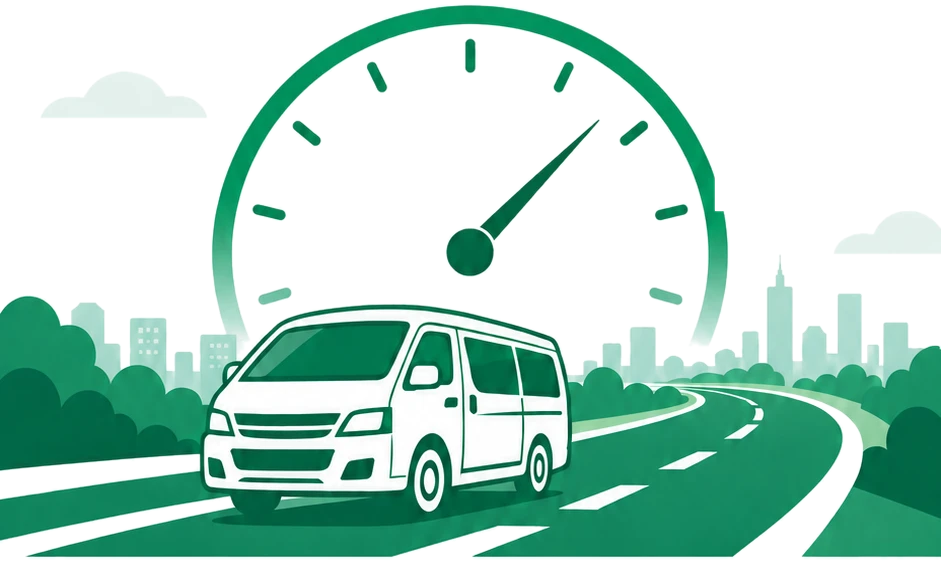
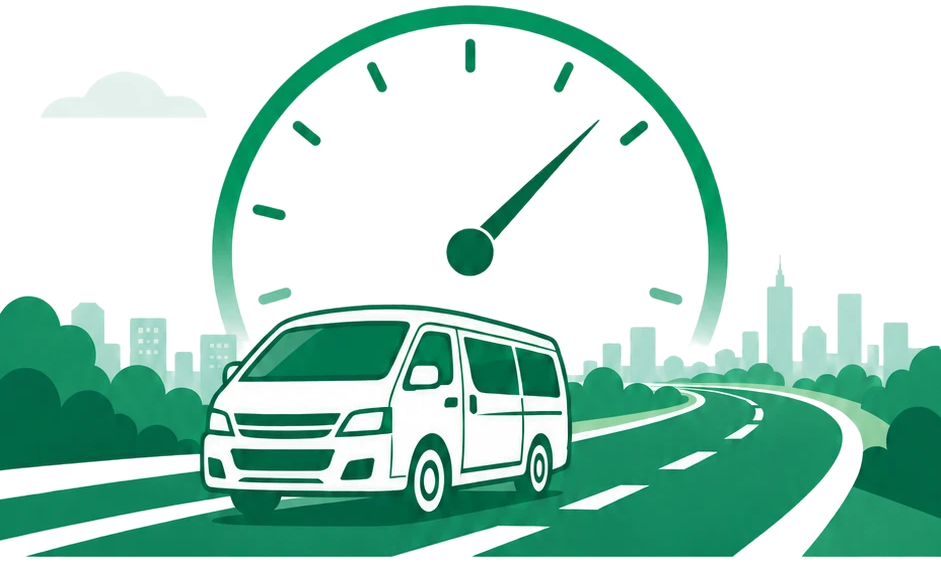
ホーム画面ヒーロー画像のダイヤルリング右下の四角い切り抜きを修正
宣伝文言を消す際の白塗り矩形が、円弧(リング)の一部にまで重なって
おり、透過処理でリングの色がその境目だけ途切れて四角く見えていた。
連結成分解析でリング本体を検出して保護し、矩形内でもリング以外の
部分だけを消去するように修正。副次的に生じていた雲の破片(平らな
台形状の白い残骸)も、雲全体を検出して合わせて消去した。

Changed region(s): [[0.8937, 0.3611, 1.0, 0.4513], [0.678, 0.331, 0.7705, 0.3912]]

diff --git a/index.html b/index.html
@@ -16,7 +16,7 @@
 <body>
 
 <div id="loadingView" class="loadingView">
-  <img src="hero-illustration.png?v=12" class="loadingHeroImg" alt="">
+  <img src="hero-illustration.png?v=13" class="loadingHeroImg" alt="">
   <div class="loadingTitle">走行距離メモ</div>
   <div id="loadingSpinner" class="spinner"></div>
   <div id="loadingText" class="loadingText">読み込み中...</div>
@@ -34,7 +34,7 @@
   </header>
 
   <div class="homeBody">
-    <img src="hero-illustration.png?v=12" class="homeHeroImg" alt="">
+    <img src="hero-illustration.png?v=13" class="homeHeroImg" alt="">
 
     <div class="homeStats">
       <div class="homeStatCard">
@@ -341,6 +341,6 @@
   </div>
 </div>
 
-<script src="app.js?v=12"></script>
+<script src="app.js?v=13"></script>
 </body>
 </html>

diff --git a/app.js b/app.js
@@ -2,7 +2,7 @@
 
 // index.htmlのapp.js/style.css読み込み時の?v=番号と合わせて手動更新する
 // (実際にこのapp.jsが読み込まれて実行された、という一番確実な証拠になる)
-const APP_VERSION = 12;
+const APP_VERSION = 13;
 
 /* ---------- アイコン ---------- */
 
